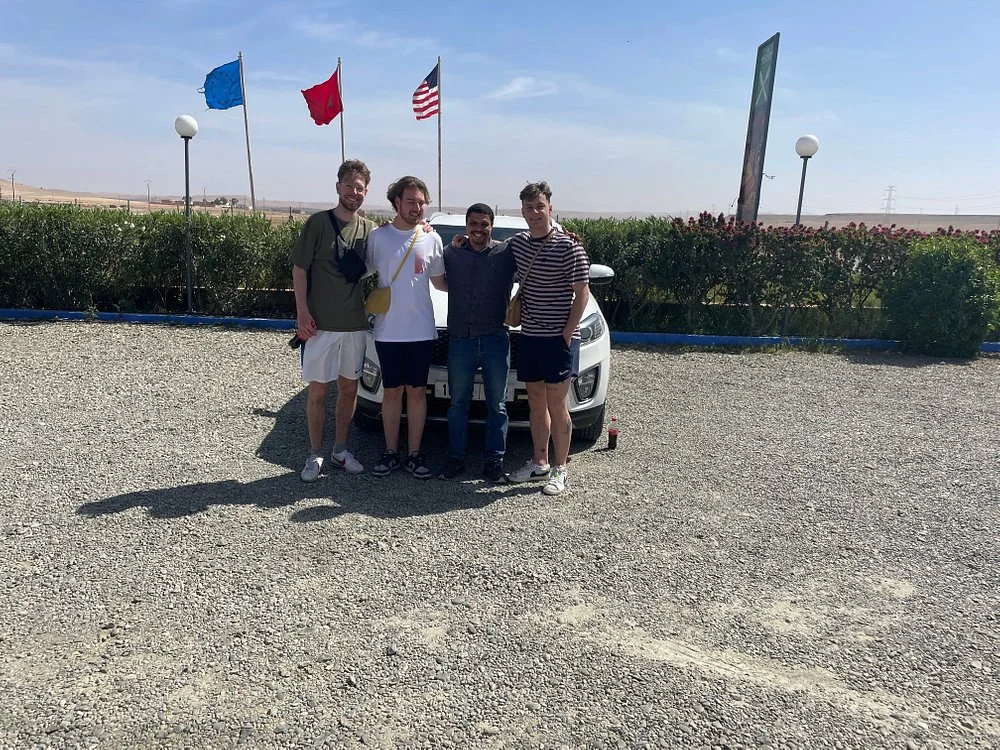
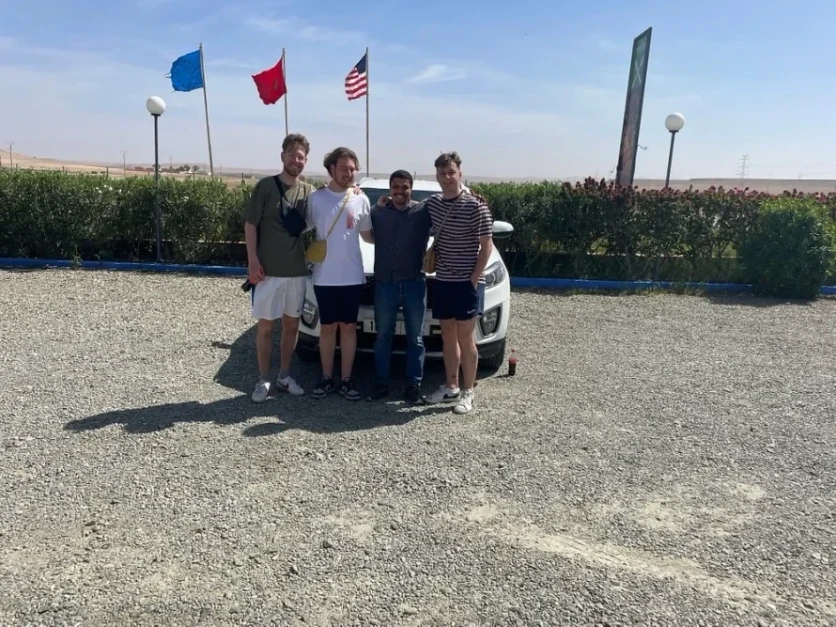
SEO Description

diff --git a/public/index.html b/public/index.html
@@ -284,7 +284,7 @@
       <section class="section without-bottom-spacing-overflow-hidden"data-w-id=8e0f9d14-ae88-d929-efed-eea8a84739ff>
          <div class="w-container base-container w-layout-blockcontainer">
             <div class=grid-block-3-columns>
-               <div class=image-block-relative id=w-node-_7cc43ee3-79c6-511f-237f-a9f39246b6f7-8b91a67f><img alt=Image src=/images/enter.webp loading=lazy class="small about-us-top-right-image" srcset="/images/car_500.webp"><img alt=Image src=/images/car.webp loading=lazy class=about-us-bottom-right-image srcset="/images/car_500.webp"></div>
+               <div class=image-block-relative id=w-node-_7cc43ee3-79c6-511f-237f-a9f39246b6f7-8b91a67f><img alt=Image src=/images/enter.webp loading=lazy class="small about-us-top-right-image" srcset="/images/enter_500.webp"><img alt=Image src=/images/car.webp loading=lazy class=about-us-bottom-right-image srcset="/images/car_500.webp"></div>
                <div class=flex-block-center id=w-node-e0cfc878-4a39-0256-8295-f03b4998079e-8b91a67f>
                   <div id=w-node-_8e0f9d14-ae88-d929-efed-eea8a8473a01-8b91a67f>
                      <h2 style=opacity:0 data-w-id=8e0f9d14-ae88-d929-efed-eea8a8473a02>Votre Compagnon de Transport Idéal</h2>
